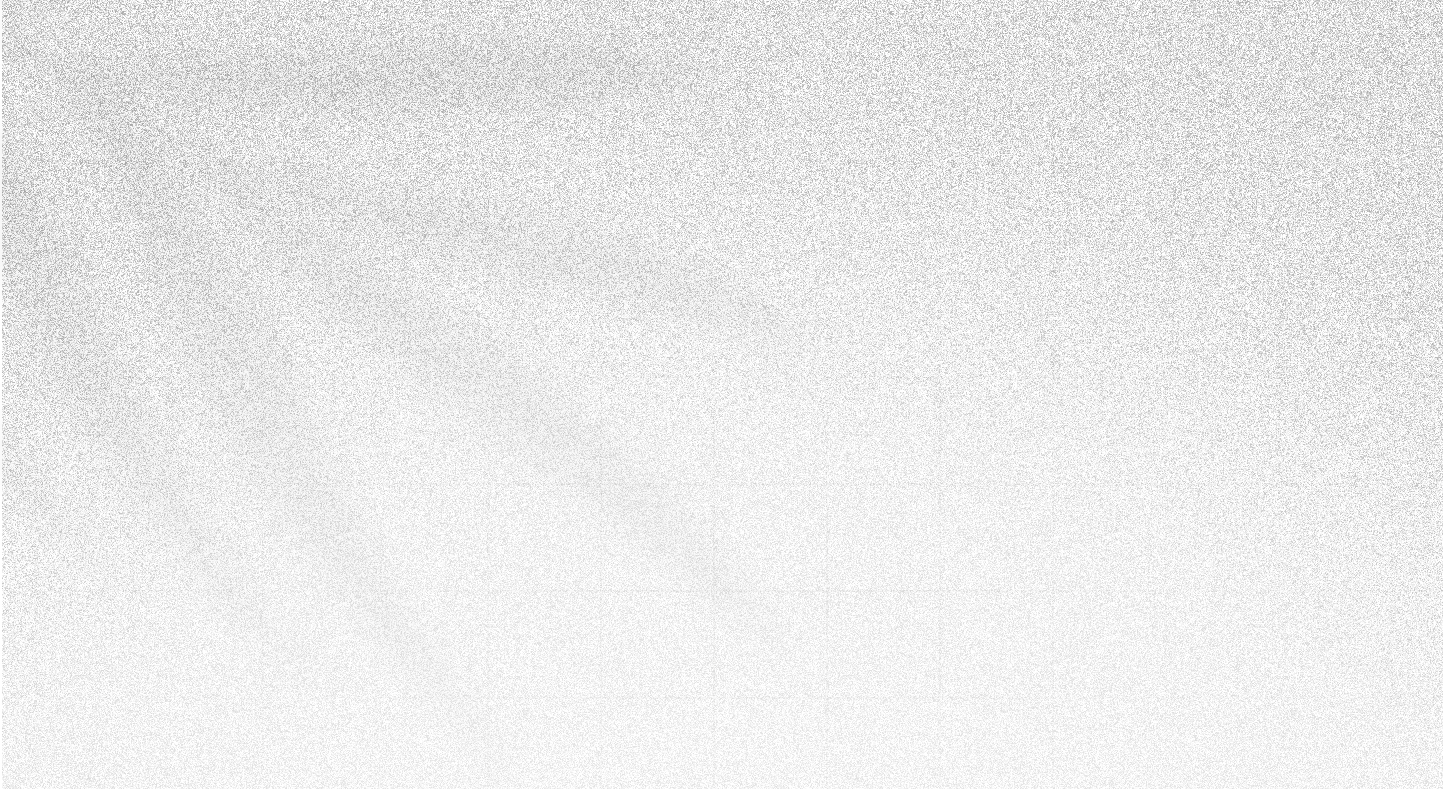
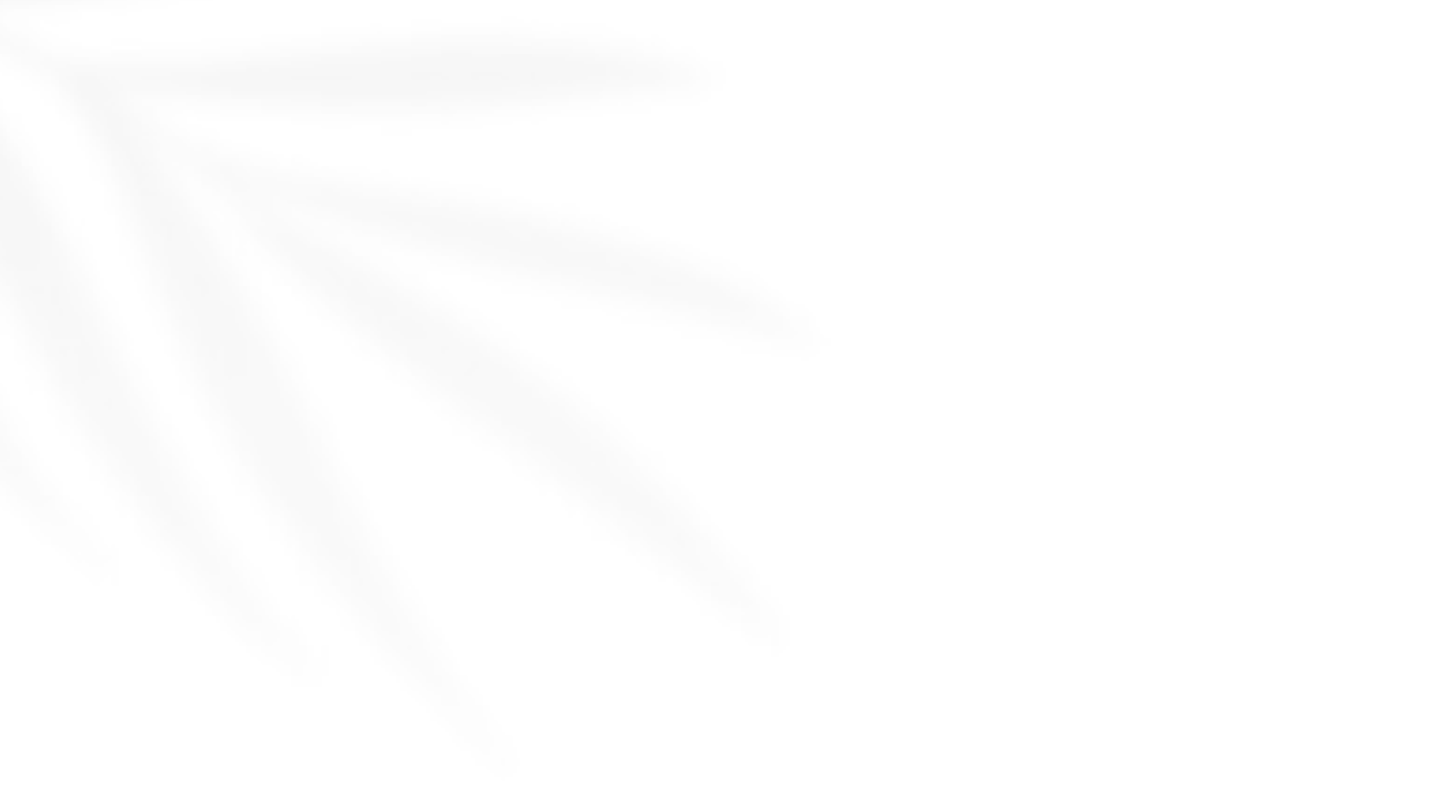
Fix hero image, bold tag lines and book a cal shadow fix

diff --git a/components/hero.tsx b/components/hero.tsx
@@ -36,10 +36,10 @@ const Hero = () => {
     <div className="relative">
       {/* Background Image with reduced opacity */}
       <div
-        className="absolute inset-0 bg-cover bg-no-repeat z-0"
+        className="absolute inset-0 bg-contain bg-no-repeat z-0"
         style={{
           backgroundImage: "url('/images/bg-hero-portfolio.png')",
-          opacity: 0.2, // Adjust this value as needed
+          opacity: 0.7, // Adjust this value as needed
         }}
       />
 
@@ -102,20 +102,20 @@ const Hero = () => {
               <p>
                 Specializing in crafting intuitive and impactful user
                 experiences for
-                <span className="mx-2 px-2 py-1 bg-gray-200 text-[#3C3C3D] rounded-md font-medium">
+                <span className="mx-2 px-2 py-1 bg-gray-200 text-[#3C3C3D]  rounded-md font-bold">
                   Complex
                 </span>
                 ,
-                <span className="mx-2 px-2 py-1 bg-gray-200 text-[#3C3C3D] rounded-md font-medium">
+                <span className="mx-2 px-2 py-1 bg-gray-200 text-[#3C3C3D] rounded-md font-bold">
                   Data-driven SaaS
                 </span>
                 <br />
                 products and
-                <span className="mx-2 px-2 py-1 bg-gray-200 text-[#3C3C3D] rounded-md font-medium">
+                <span className="mx-2 px-2 py-1 bg-gray-200 text-[#3C3C3D] rounded-md font-bold">
                   Entreprise Solutions
                 </span>
                 backed by
-                <span className="mx-2 px-2 py-1 bg-gray-200 text-[#3C3C3D] rounded-md font-medium">
+                <span className="mx-2 px-2 py-1 bg-gray-200 text-[#3C3C3D] rounded-md font-bold">
                   4+ years
                 </span>
                 of industry experience.
@@ -125,13 +125,13 @@ const Hero = () => {
             {/* CTA Buttons */}
             <div className="flex gap-4 mt-8">
               <div className="relative">
-                <div className="opacity-30 bg-gradient-to-r from-transparent from-40% via-black via-50% to-transparent to-60% absolute top-0 bottom-0 w-full"></div>
+                <div className="opacity-30  z-30 bg-gradient-to-r from-transparent from-40% via-black via-50% to-transparent to-60% absolute top-0 bottom-0 w-full"></div>
                 <a
                   href="https://calendly.com/azizulislamux"
                   target="_blank"
                   rel="noopener noreferrer"
                 >
-                  <Button className="rounded-full bg-[#1E1E1E] outline outline-offset-2 outline-1 drop-shadow-xl hover:bg-black px-6">
+                  <Button className="rounded-full static bg-[#1E1E1E] outline outline-offset-2 outline-1 drop-shadow-xl hover:bg-black px-6">
                     Book a Call 💬
                   </Button>
                 </a>
@@ -140,7 +140,7 @@ const Hero = () => {
               <Button
                 variant="outline"
                 onClick={copyToClipboard}
-                className="rounded-full border-gray-300 text-gray-700 outline outline-offset-2 outline-1 outline-[#E7E7E7] drop-shadow-xl hover:bg-gray-100 px-6"
+                className="rounded-full border-gray-300 text-gray-700 outline outline-offset-2 outline-1 outline-[#E7E7E7]  hover:bg-gray-100 px-6"
               >
                 📩 Copy email
               </Button>

diff --git a/components/navbar.tsx b/components/navbar.tsx
@@ -26,7 +26,7 @@ const Navbar = () => {
 
   return (
     <div className="container mx-auto px-4 pt-4 sm:pt-6 lg:pt-8 flex justify-center fixed left-0 right-0 z-50 ">
-      <div className="bg-white">
+      <div className="">
         <div className="bg-[#0C0C0C] opacity-80 text-white rounded-full px-3 py-2 sm:px-4 sm:py-2.5 lg:px-6 lg:py-3 flex items-center gap-2 sm:gap-4 lg:gap-8  drop-shadow-xl shadow-xl">
           <Link
             href="/"
